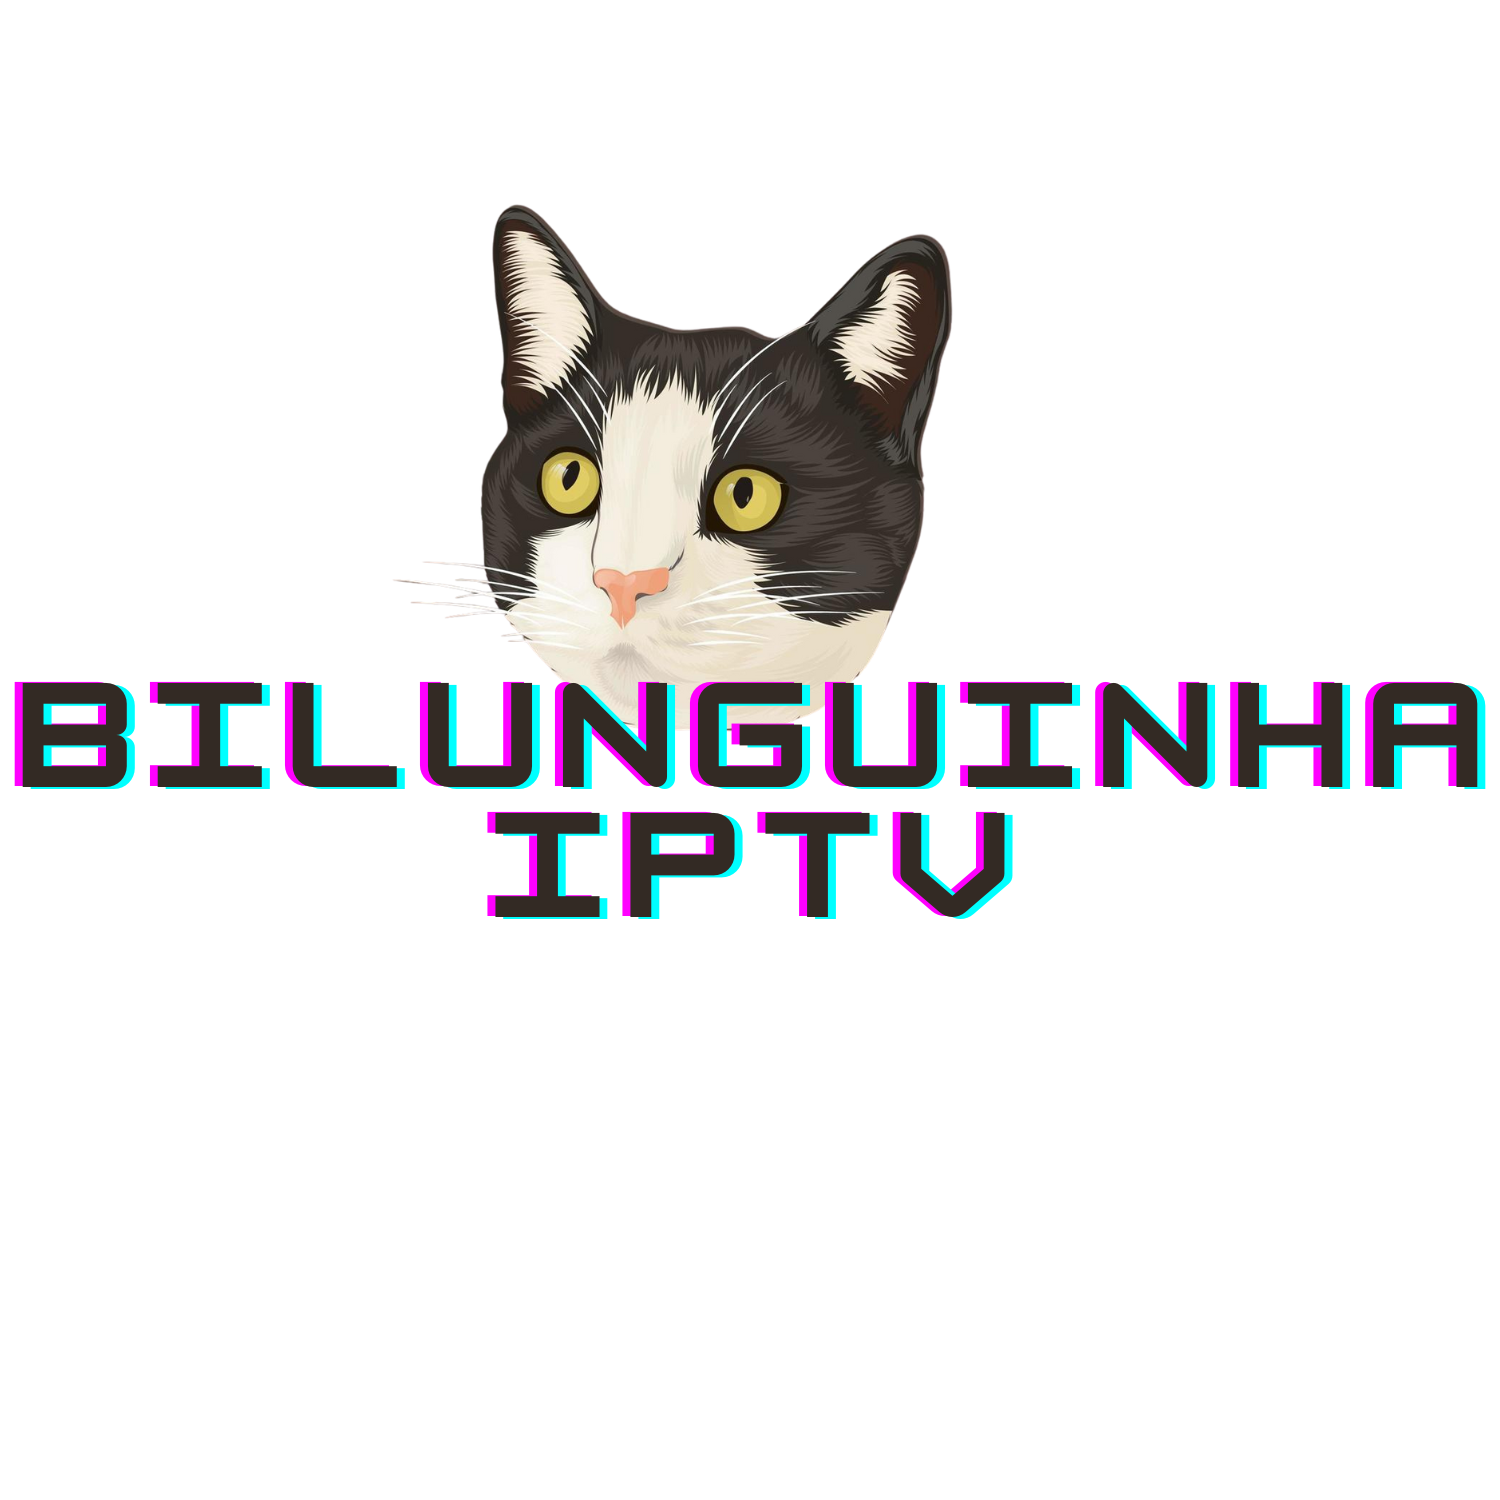
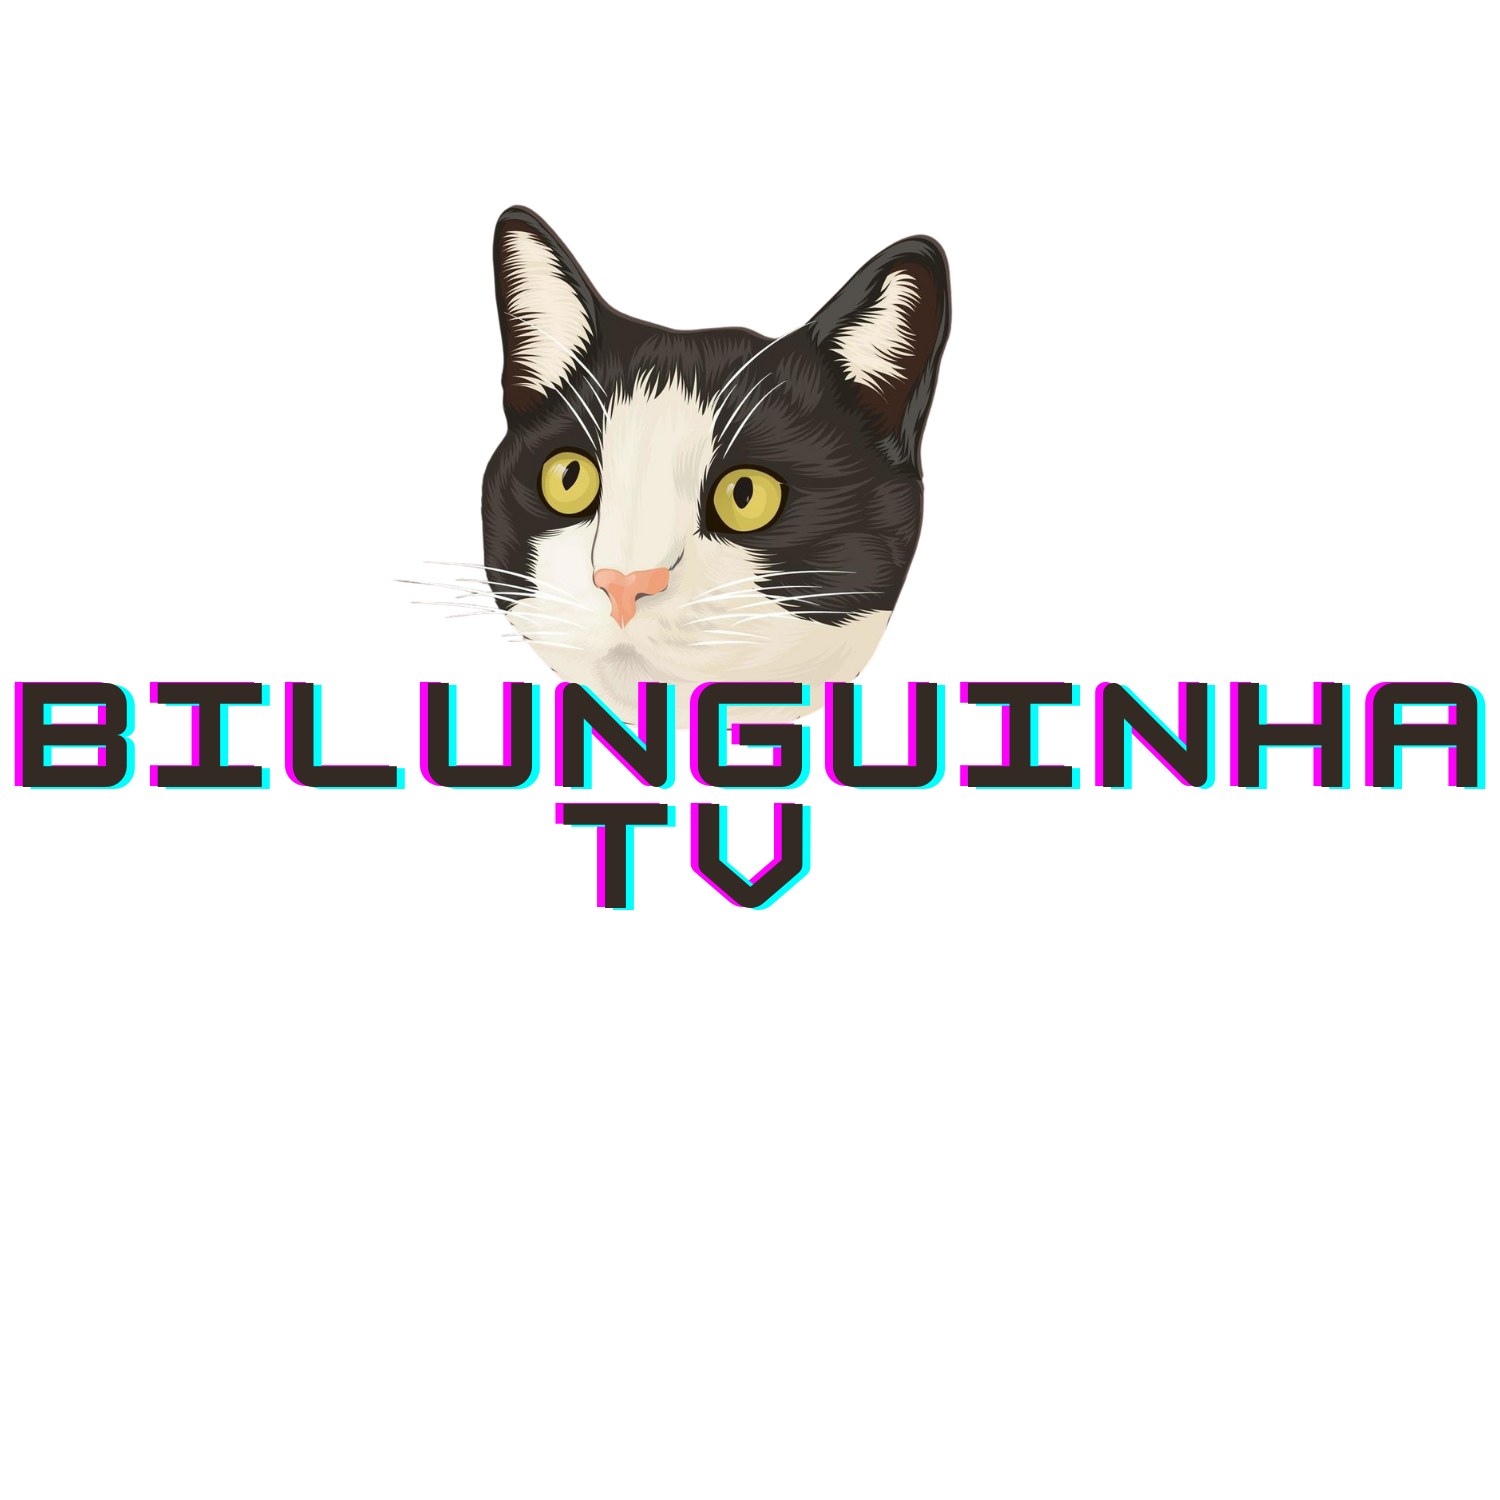
Update

Changed region(s): [[0.3067, 0.5213, 0.6747, 0.6133]]

diff --git a/index.html b/index.html
@@ -1,32 +1,52 @@
-<!DOCTYPE html>
+<!doctype html>
 <html lang="pt-BR">
 
 <head>
-    <meta charset="UTF-8">
-    <meta http-equiv="X-UA-Compatible" content="IE=edge">
-    <meta name="viewport" content="width=device-width, initial-scale=1.0">
-    <title>Bilunguinha IPTV</title>
-    <link rel="stylesheet" type="text/css" href="/CSS/style.css" />
+
+  <!-- Bootstrap JavaScript Libraries -->  
+  <script src="https://cdn.jsdelivr.net/npm/@popperjs/core@2.11.6/dist/umd/popper.min.js"
+    integrity="sha384-oBqDVmMz9ATKxIep9tiCxS/Z9fNfEXiDAYTujMAeBAsjFuCZSmKbSSUnQlmh/jp3" crossorigin="anonymous" defer>
+  </script>
+
+  <script src="https://cdn.jsdelivr.net/npm/bootstrap@5.2.1/dist/js/bootstrap.min.js"
+    integrity="sha384-7VPbUDkoPSGFnVtYi0QogXtr74QeVeeIs99Qfg5YCF+TidwNdjvaKZX19NZ/e6oz" crossorigin="anonymous" defer>
+  </script>
+  
+  <!-- Bootstrap CSS v5.2.1 -->
+  <link href="https://cdn.jsdelivr.net/npm/bootstrap@5.2.1/dist/css/bootstrap.min.css" rel="stylesheet"
+    integrity="sha384-iYQeCzEYFbKjA/T2uDLTpkwGzCiq6soy8tYaI1GyVh/UjpbCx/TYkiZhlZB6+fzT" crossorigin="anonymous">
+  <link rel="stylesheet" type="text/css" href="/CSS/style.css" />
+  
+  <title>Bilunguinha TV</title>
+  <!-- Required meta tags -->
+  
+  <meta charset="utf-8">
+  <meta name="viewport" content="width=device-width, initial-scale=1, shrink-to-fit=no">
+
+
 </head>
 
 <body>
     <!--Logo title   -->
-    <header id="Logo_title">
-        <nav>
-            <h1>
-                <a href="index.html"><img src="Imgs/Bilunguinha IPTV.png" height="300"></a>
-            </h1>
-        </nav>
-    </header>
-    <br>
-
+  <header>
+      <div id="Logo_Container" href="index.html" >
+        <img id="Logo_title" src="Imgs/Bilunguinha IPTV.png"> 
+    </div>
+  </header>
+  <main>
     <!--Menu de navegação-->
     <nav id="Menu_Nav">
-        <a href="index.html"><img src="Imgs/inicio.png"></a> &emsp;&emsp;
-        <a href="Páginas/canais.html">Canais</a>&emsp;&emsp;
+        <a href="index.html"><img src="Imgs/inicio.png"></a>
+        <a href="Páginas/canais.html"><img src="Imgs/canais.png"></a>
     </nav>
 
 
+  </main>
+  
+  <footer>
+    <!-- place footer here -->
+  </footer>
+  
 </body>
 
 </html>

diff --git a/CSS/style.css b/CSS/style.css
@@ -1,8 +1,17 @@
-
-#Logo_title {
-    text-align: center;
+#Logo_Container{
+    display: flex;
+    flex-direction: row;
+    justify-content: center;
+    align-items: center;
 }
 
-#Menu_Nav{
+#Logo_title {
+    width: 300px;
+}
+
+#Menu_Nav {
     text-align: center;
+}
+#Menu_Nav a{
+    margin-inline: 10px;
 }
